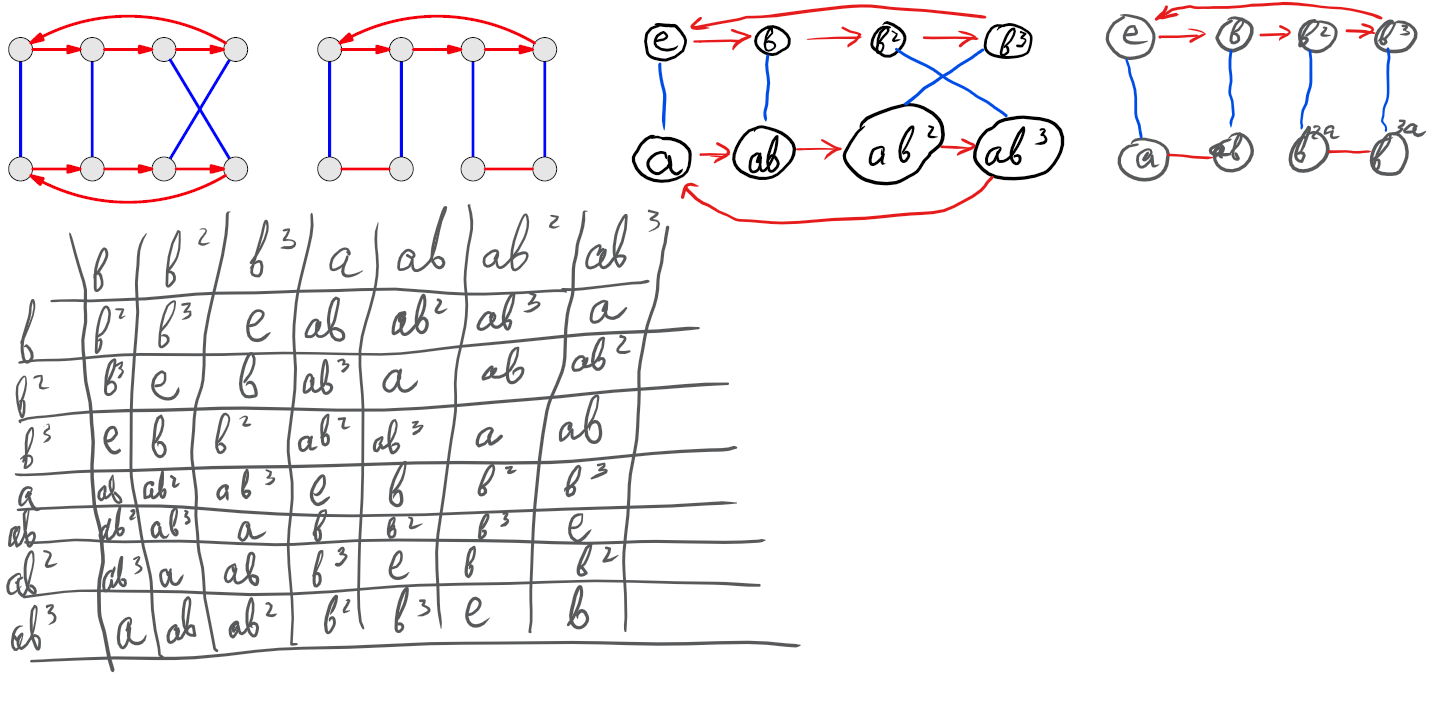
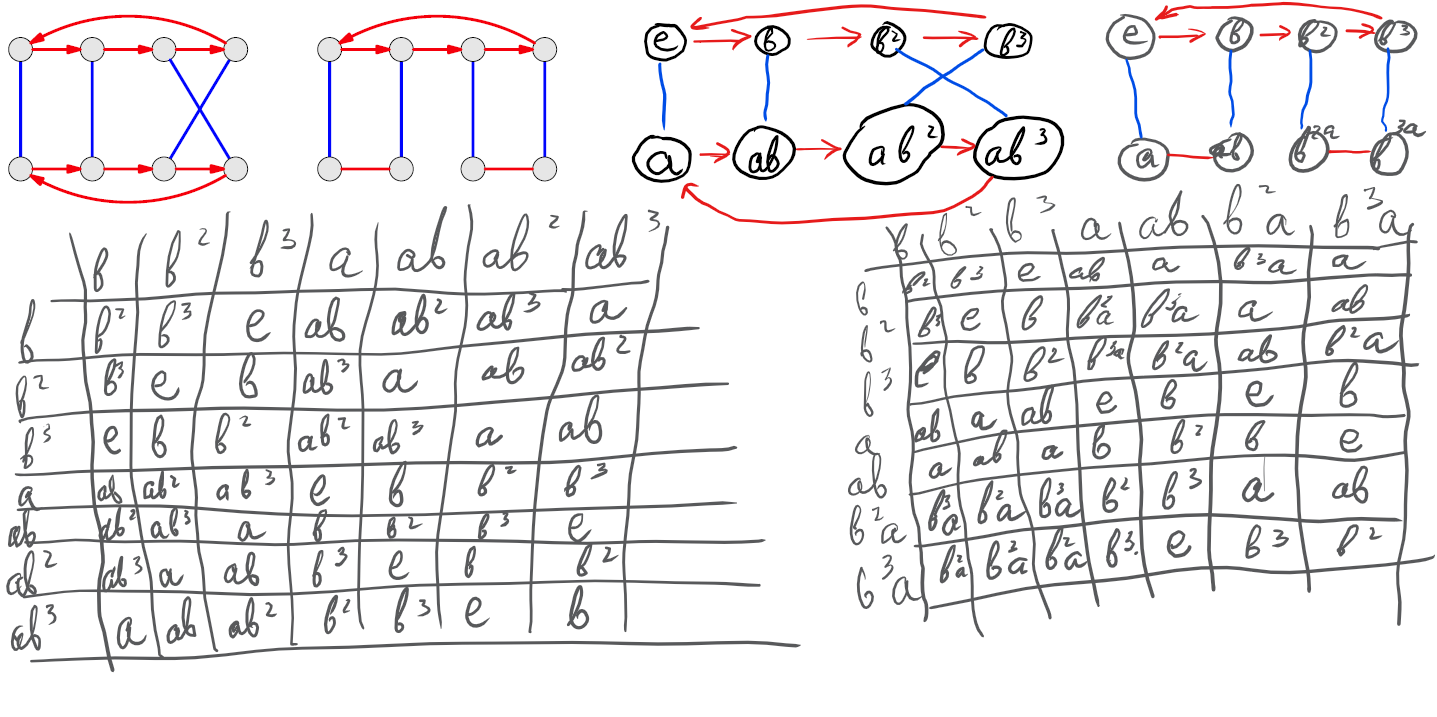
Begin with 4.19

diff --git a/4.5 Exercises.md b/4.5 Exercises.md
@@ -58,6 +58,8 @@ one, determine whether it is commutative and whether it is associative.
 
 `a ^ b != b ^ a` `(a ^ b) ^ c != a ^ (b ^ c)`
 
+## 4.5.2 Creating tables
+
 **Exercise 4.4.** The Cayley diagrams for two groups are shown here, the cyclic group C5
 on the left and the Quaternion group Q4 on the right.
 ![Image](4.5%20Exercise%204.4.png)
@@ -204,6 +206,8 @@ is a valid Cayley diagram.
 
 ![Diagrams](4.5%20Exercise%204.16.png)
 
+This exercise puzzles me...
+
 (a) Does each diagram meet all the criteria that were your answers to Exercises 2.14
 through 2.17?
 Hmmm...
@@ -218,3 +222,27 @@ encountered in part (b)?
 This exercise shows a slight discrepancy between the actions-based definition of group
 (Definition 1.9, illustrated using Cayley diagrams) and my algebraic one (Definition 4.2,
 illustrated using multiplication tables). This discrepancy will be cleared up in Section 6.1.
+
+**Exercise 4.17.** Explain why a Cayley diagram must be connected. That is, why must
+there be a path from every node to every other node?
+
+See answer in the book.
+
+**Exercise 4.18.** When creating a multiplication table for a group, if you try to include
+two different identity elements, what goes wrong? What does this lead you to conclude
+about groups?
+
+See answer in the book.
+
+## 4.5.3 Almost tables
+
+**Exercise 4.19.** Complete each of the following multiplication tables so that it depicts
+a group. There is only one way to do so, if we require that 0 be the identity element in
+each table. Then search Group Explorer’s group library to determine the names for the
+groups the tables represent.
+
+(a) ![Solution](4.5%20Exercise%204.19a.png) Z_2
+(b) ![Solution](4.5%20Exercise%204.19b.png) Z_3
+(c) ![Solution](4.5%20Exercise%204.19c.png) Z_1
+(d) ![Solution](4.5%20Exercise%204.19d.png) Z_4
+(e) ![Solution](4.5%20Exercise%204.19e.png) Unfinished